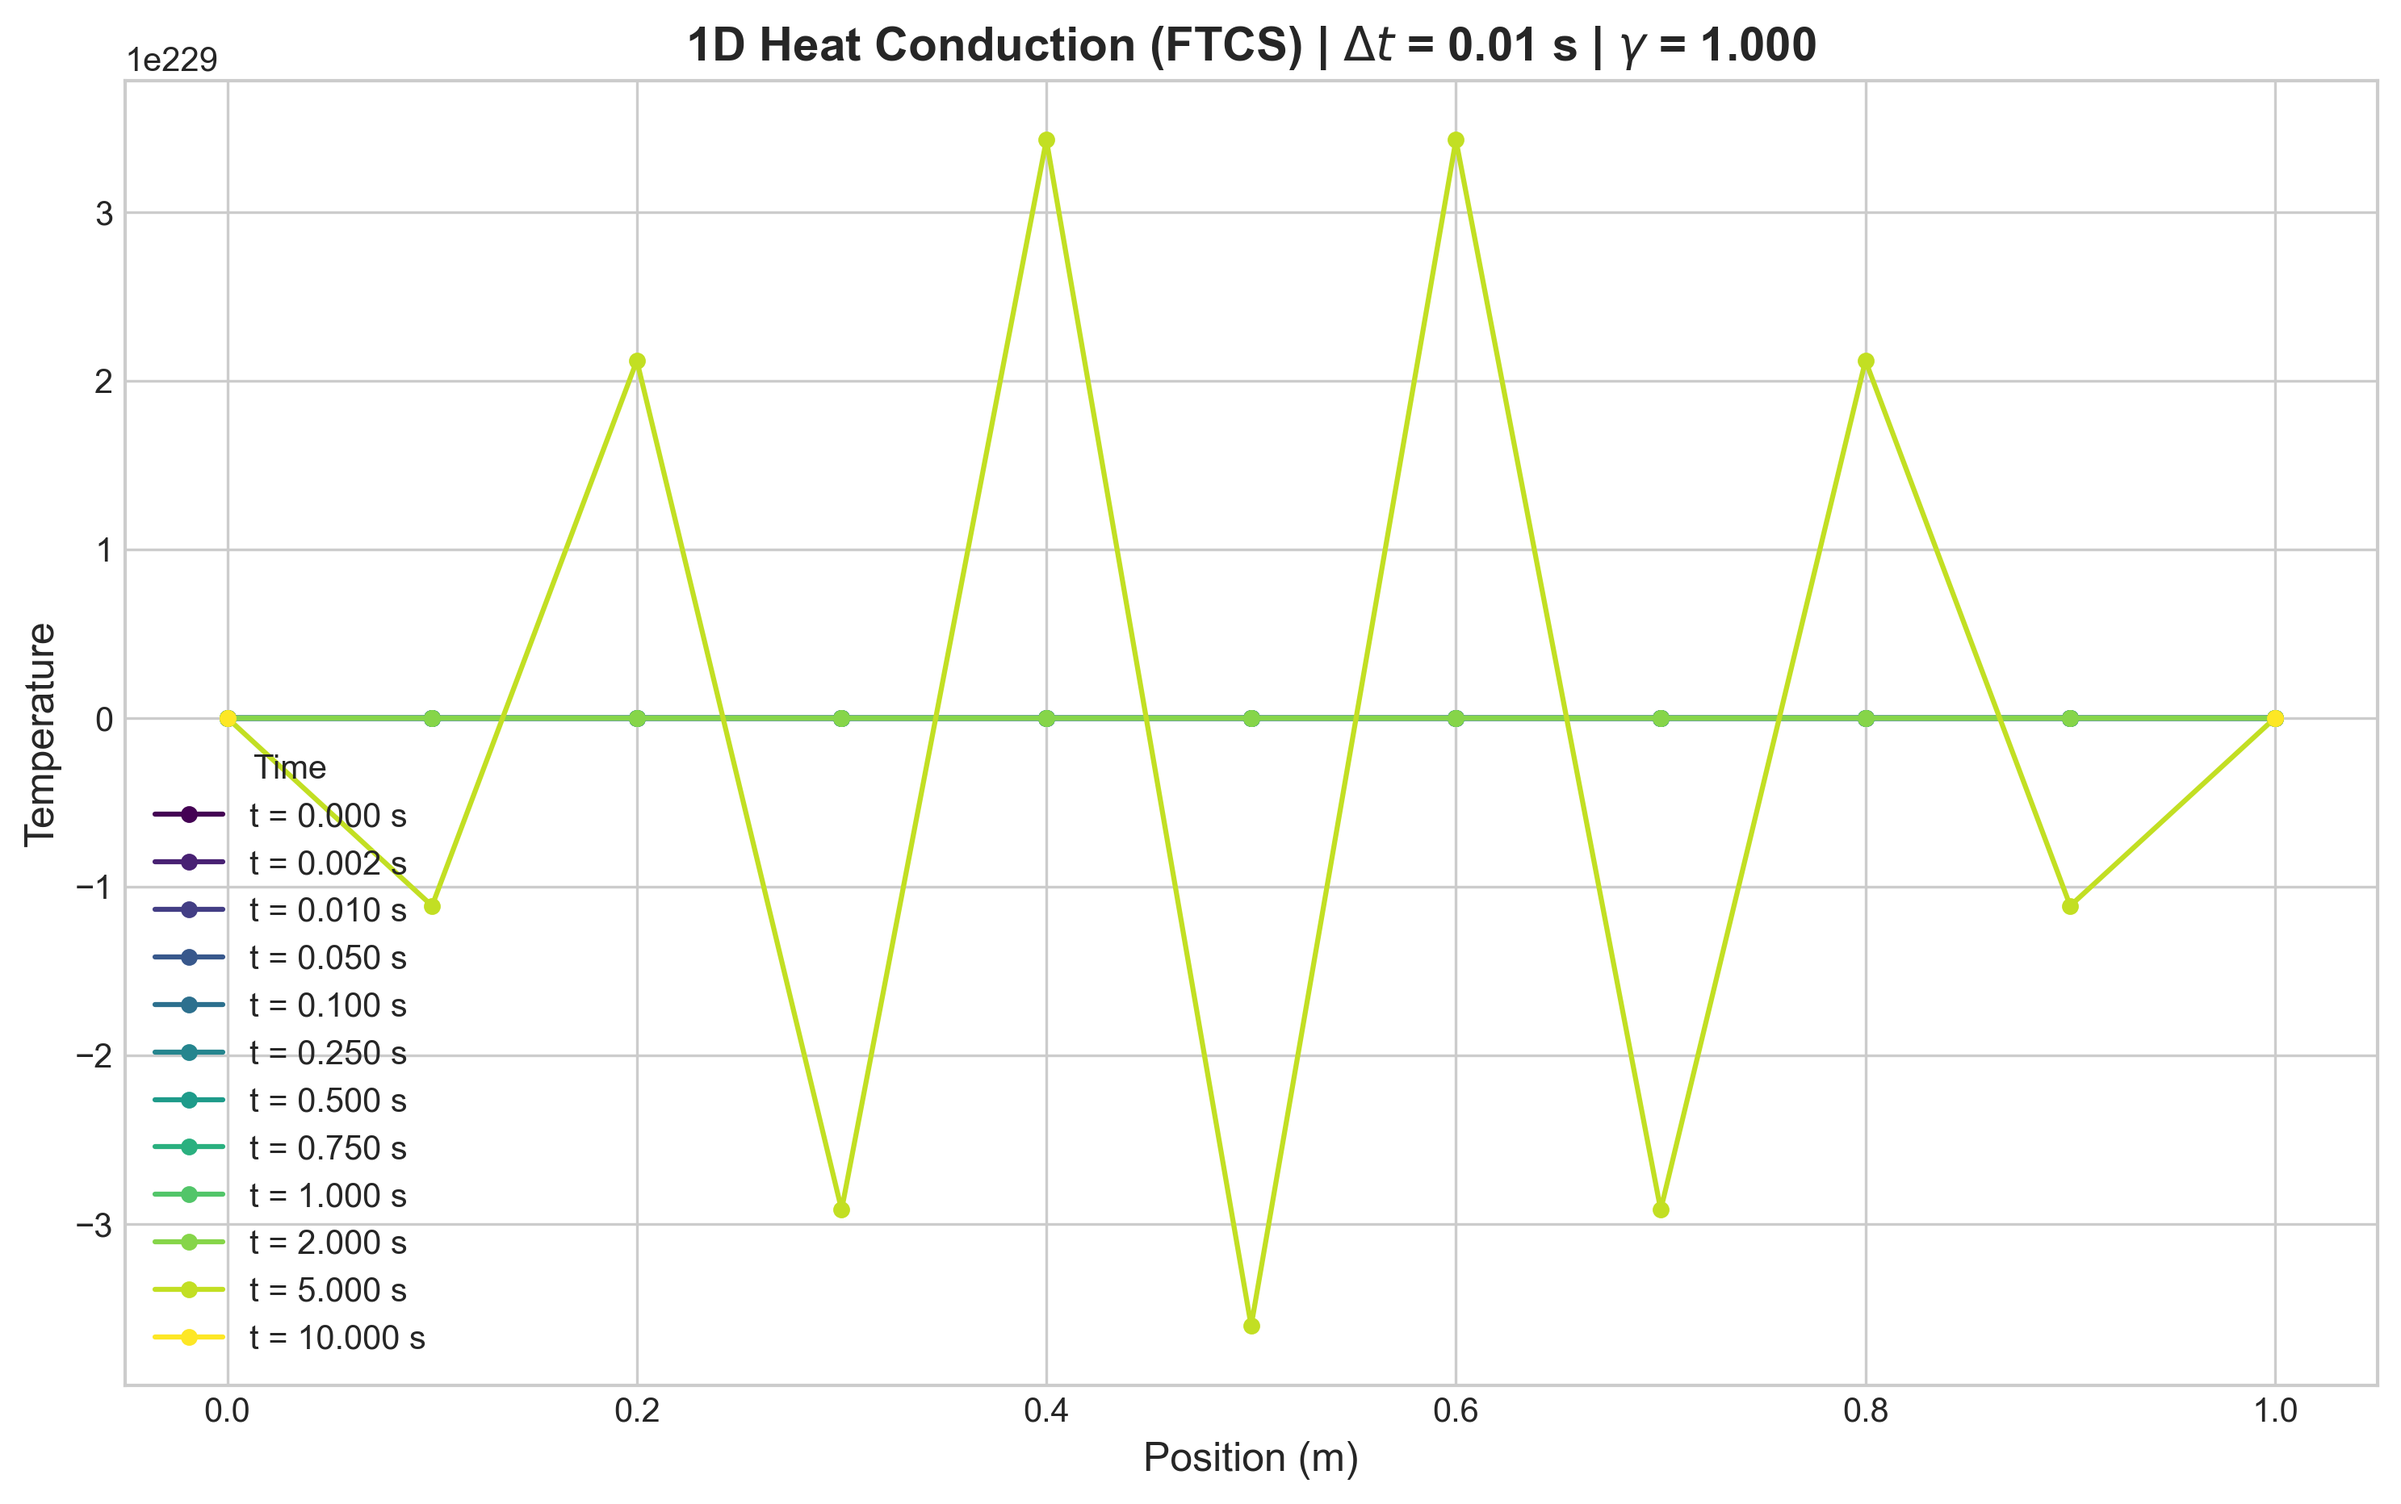
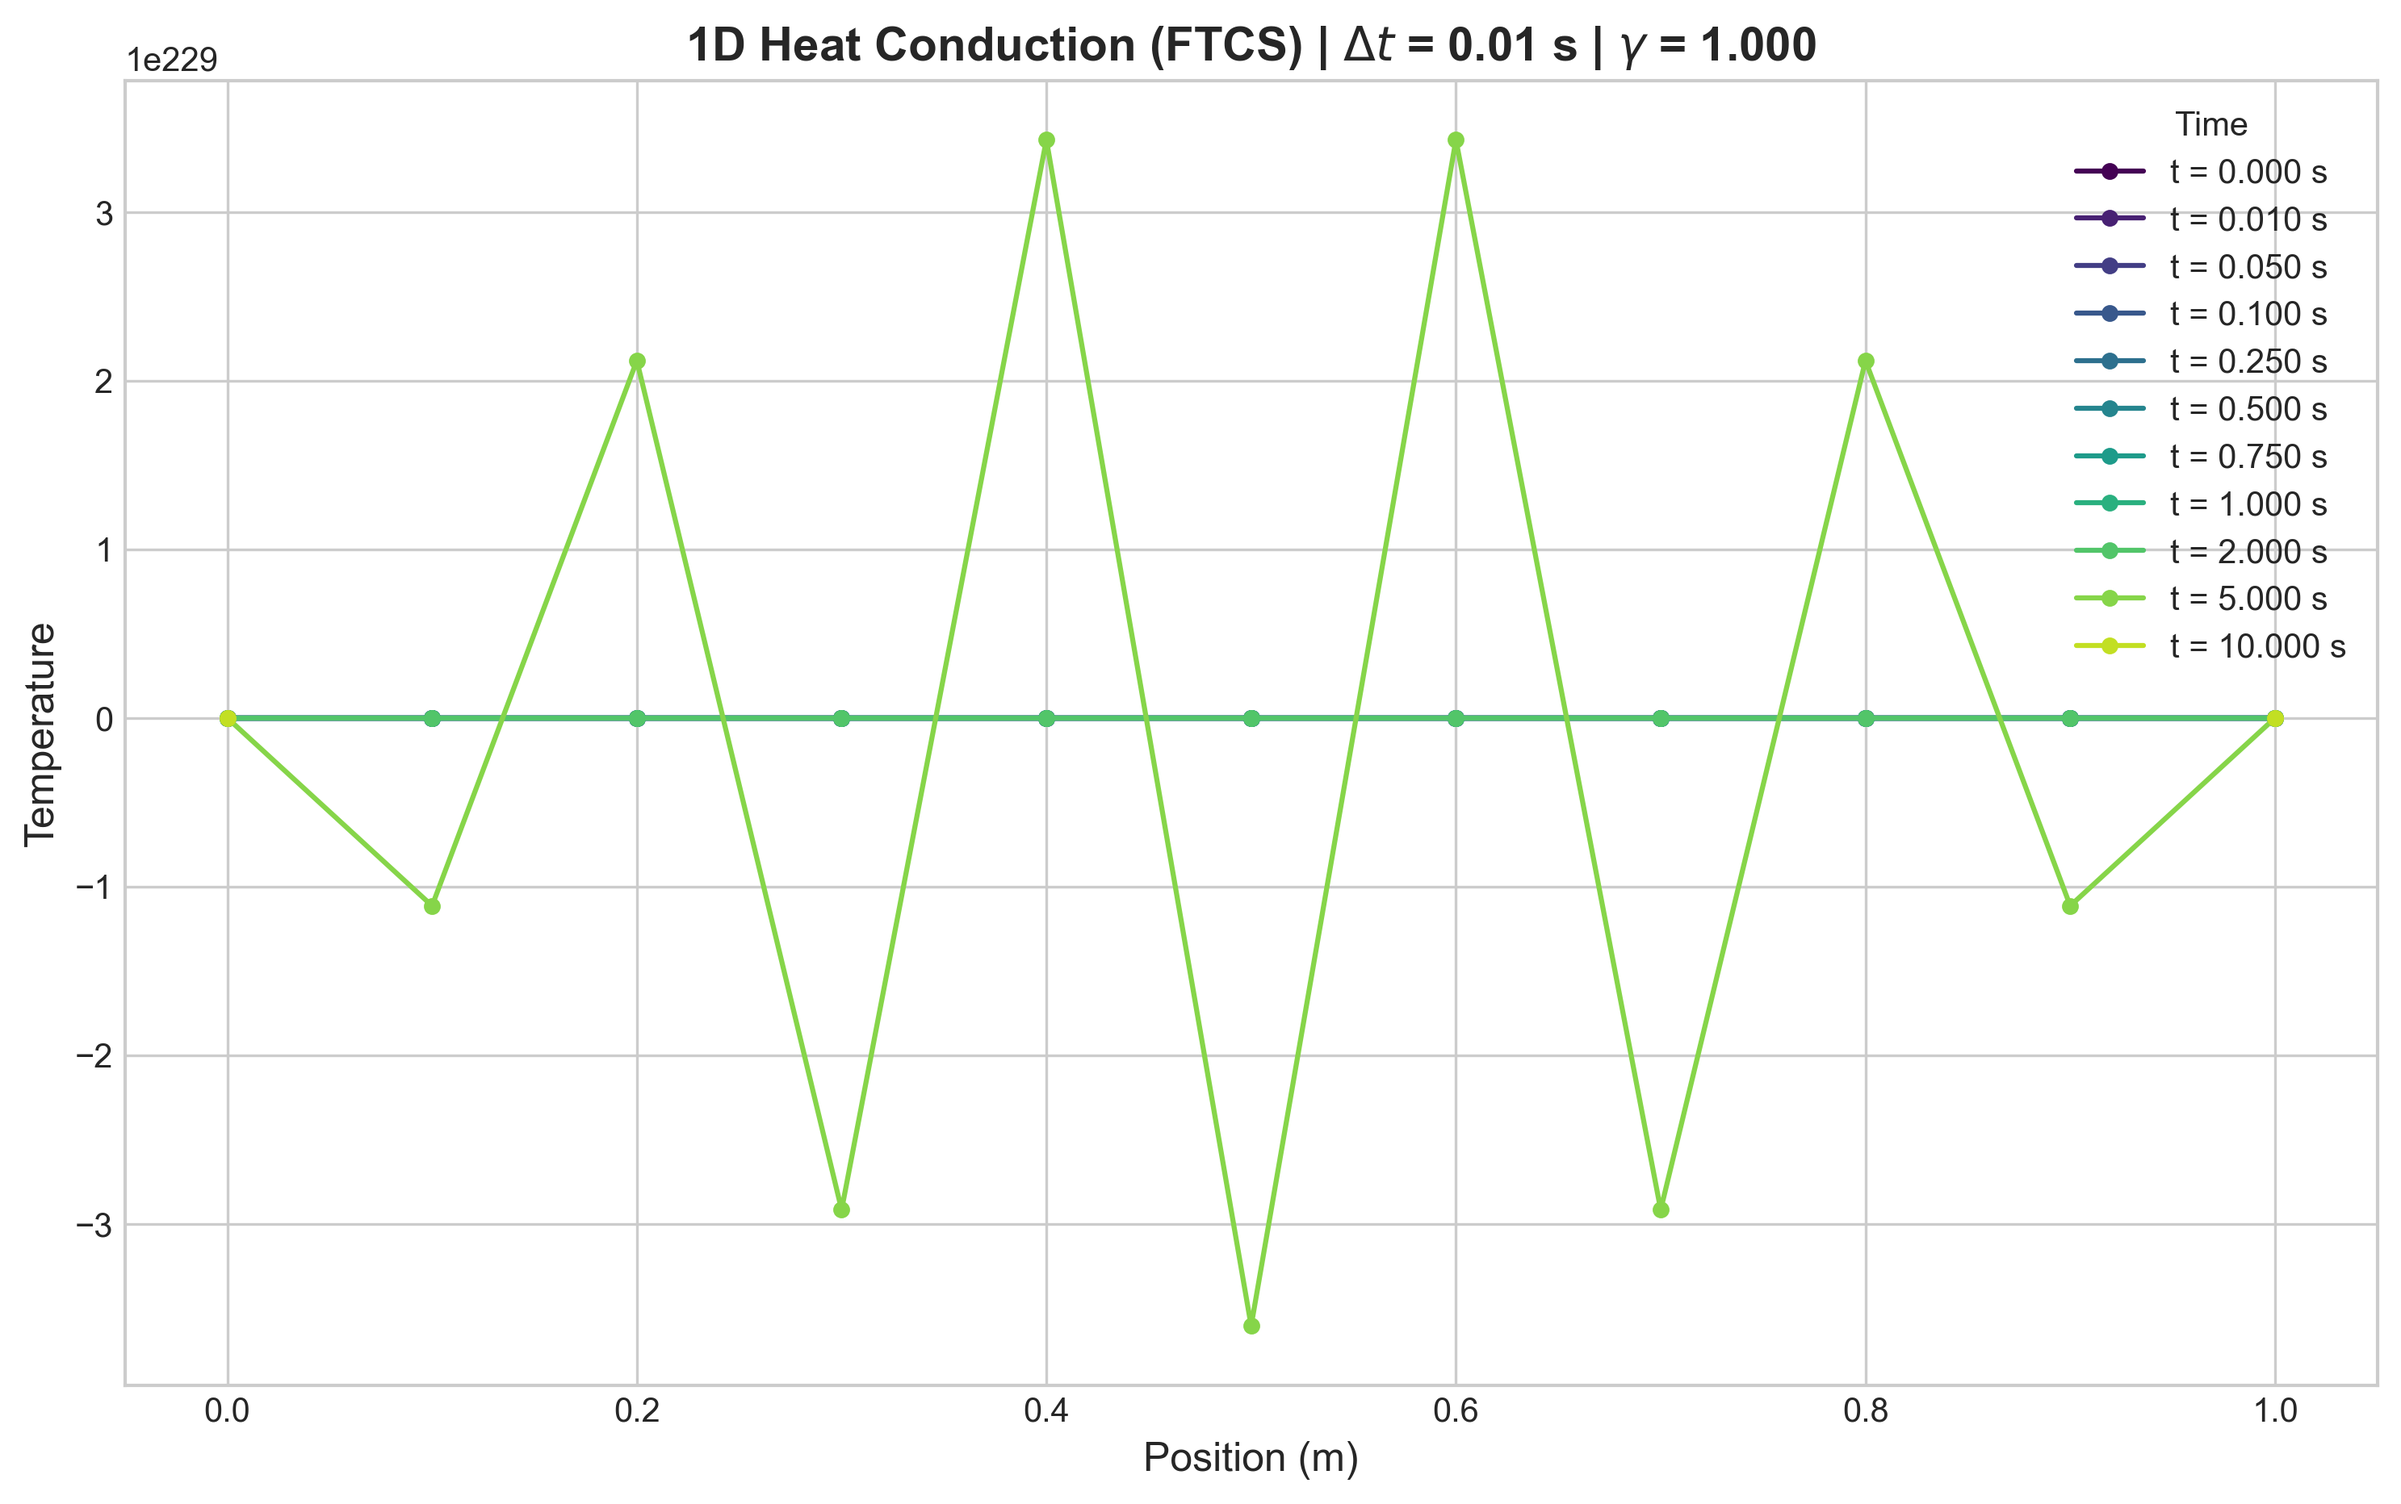
optimized the code further by storing just the required values of time

diff --git a/Assignment 1/AE25M021.py b/Assignment 1/AE25M021.py
@@ -7,7 +7,7 @@ l = 1.0  # Length of the domain
 alpha = 1.0  # Diffusivity
 nodes = 11  # Number of grid points
 dx = l / (nodes - 1)  # Grid spacing
-dt = 0.1  # Time step size
+dt = 0.001  # Time step size
 gamma = alpha * dt / dx**2  # Stability parameter
 total_time = 10.0  # Total simulation time
 
@@ -19,34 +19,32 @@ if gamma > 0.5:
     print("Consider reducing 'dt' or increasing 'dx' to ensure numerical stability.")
 num_steps = int(total_time / dt)  # Number of time steps
 
-time_plot = np.array(
-    [0, 0.002, 0.01, 0.05, 0.1, 0.25, 0.5, 0.75, 1.0, 2.0, 5.0, 10.0]
-)  # Array to store the time steps which will be plotted
+# Array to store the time steps which will be plotted
+time_plot = [0, 0.002, 0.01, 0.05, 0.1, 0.25, 0.5, 0.75, 1.0, 2.0, 5.0, 10.0]
+plot_steps = [int(round(t / dt)) for t in time_plot]
 
 # Spatial coordinates
 x = np.linspace(0, l, nodes)
 
 
 # Initial and boundary conditions
-T = np.zeros(nodes)  # Initial temperature distribution
-T[0] = 1.0  # Boundary condition at the left end
-T[-1] = 0.0  # Boundary condition at the right end
+T = np.zeros(nodes)  # Initial condition at t=0
 
-# Array to store temperature distribution
-T_history = np.zeros((num_steps + 1, nodes))
-T_history[0] = T.copy()  # Store initial condition
-T_history[:, 0] = T[0].copy()  # Store left boundary condition
-T_history[:, -1] = T[-1].copy()  # Store right boundary condition
+# Dictionary to store only the required time steps (Memory Efficient)
+T_history = {0.0: T.copy()}
+
+# Apply boundary conditions for t > 0
+T[0] = 1.0
+T[-1] = 0.0
+
 
 # Time-stepping loop
 for n in range(1, num_steps + 1):
     T_old = T.copy()
     T[1:-1] = T_old[1:-1] + gamma * (T_old[2:] - 2 * T_old[1:-1] + T_old[:-2])
-    T_history[n] = T.copy()
-
-# Since the left boundary condition is applied for t>0 but not t=0, we need to update the first row of T_history.
-# The left boundary is still 0 at t=0.
-T_history[0, 0] = 0.0
+    if n in plot_steps:
+        current_time = n * dt
+        T_history[current_time] = T.copy()
 
 
 def plot_temperature_distribution(
@@ -58,20 +56,16 @@ def plot_temperature_distribution(
     # Use a colormap for visually distinct line colors
     colors = plt.cm.viridis(np.linspace(0, 1, len(time_points)))
 
-    for i, t in enumerate(time_points):
-        # find the closest time step index to avoid floating point issues
-        step_index = int(round(t / dt))
-
-        if step_index < T_history.shape[0]:
-            ax.plot(
-                x_coords,
-                T_history[step_index],
-                marker="o",
-                markersize=4,
-                linestyle="-",
-                color=colors[i],
-                label=f"t = {t:.3f} s",
-            )
+    for i, (t, T_vals) in enumerate(T_history.items()):
+        ax.plot(
+            x_coords,
+            T_vals,
+            marker="o",
+            markersize=4,
+            linestyle="-",
+            color=colors[i],
+            label=f"t = {t:.3f} s",
+        )
 
     ax.set_xlabel("Position (m)", fontsize=12)
     ax.set_ylabel("Temperature", fontsize=12)
